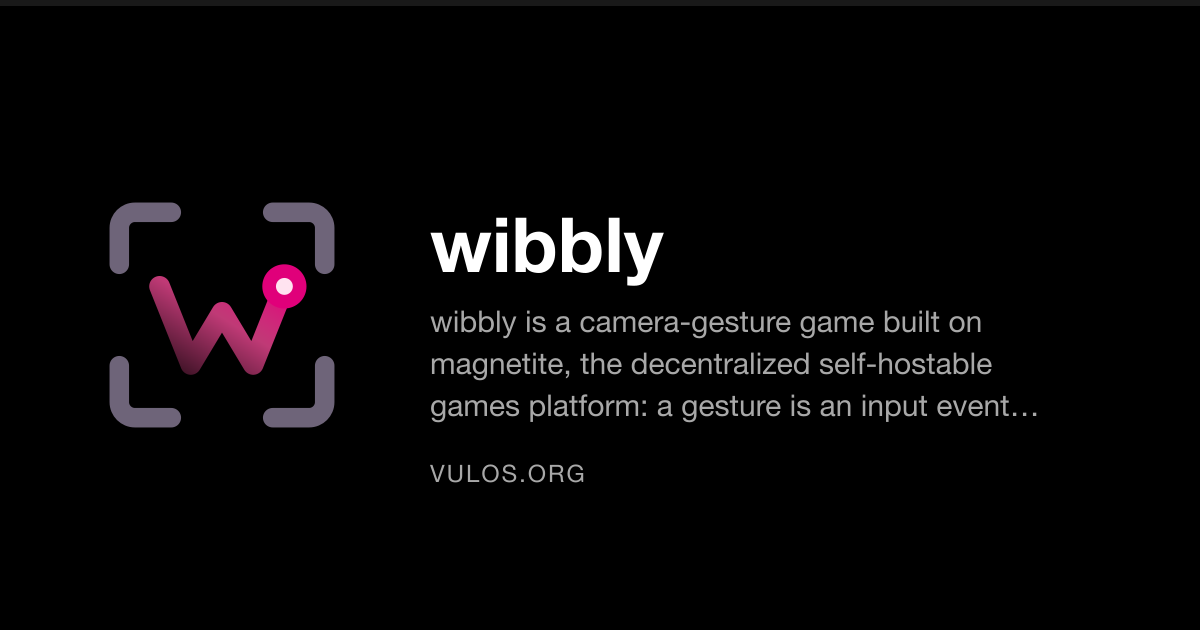
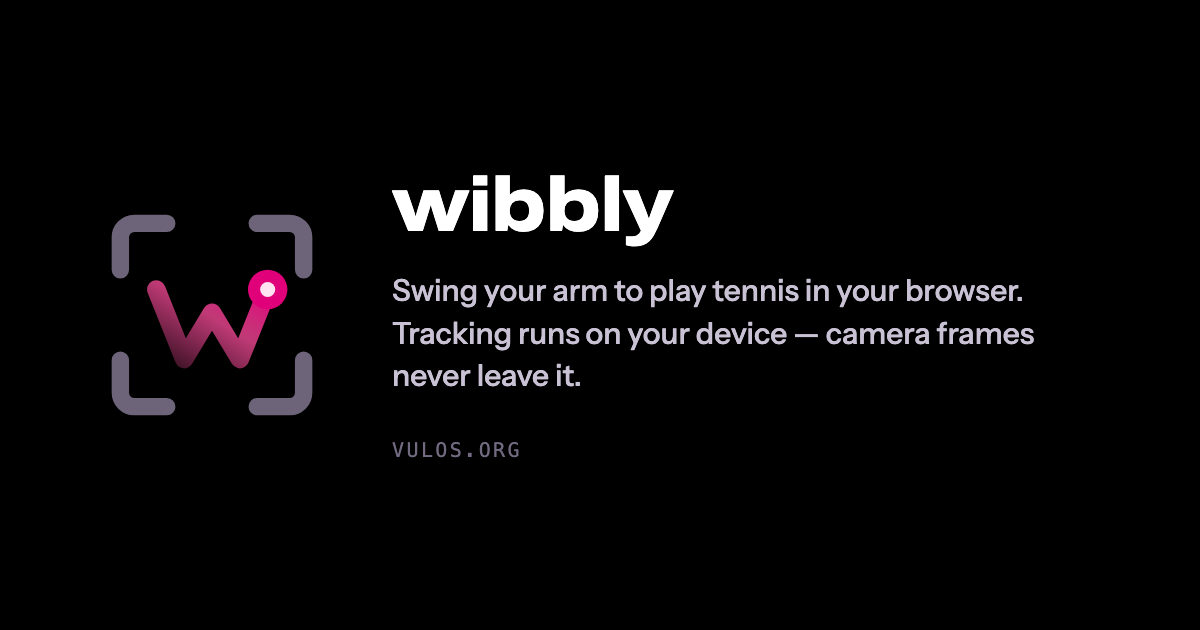
site: align docs shell nav to the agreed structure, fix a topbar overflow
docs.html's hardcoded GROUPS now matches the structure agreed with the
docs-content agent: Play (how-to-play/whats-in-it-today/troubleshooting)
-> Your camera (privacy) -> How it works (overview/architecture/models/
multiplayer) -> Build it yourself (getting-started/configuration/
runtime-targets/roadmap), last.

Also found and fixed a real horizontal-overflow bug while sweeping
narrow widths: the topbar's brand-word hid at <=370px but the vulos-btn
label only hid at <=340px, leaving a 371-388px dead zone where both
were visible at once and the page scrolled horizontally by ~13px.
Swept 320-1440px in 5-10px steps after the fix across the landing and
several docs pages — zero overflow anywhere now.

Regenerated site/assets/og-card.png's composition (same mark, copied
verbatim from brand/logo.svg, never redrawn) — the old card's body copy
was the same truncated run-on sentence the meta tags had, now a real
non-truncated line.

Agent-generated, machine-verified, NOT human-reviewed.

diff --git a/site/docs.html b/site/docs.html
@@ -231,12 +231,13 @@
 
   .nav-links { display: flex; align-items: center; gap: 4px; }
   .nav-links a {
-    font-family: var(--mono); font-size: 11px; font-weight: 500;
+    font-family: var(--mono); font-size: 12px; font-weight: 500;
     letter-spacing: .08em; text-transform: uppercase; color: var(--ink-3);
     padding: 5px 8px; border-radius: var(--r-sm); transition: color .15s, background .15s;
   }
   .nav-links a:hover { color: var(--ink); background: var(--surface-2); }
   .nav-links a.here { color: var(--accent); }
+  .nav-links a.play { color: var(--accent); }
   @media (max-width: 1080px) { .nav-links { display: none; } }
 
   .seg {
@@ -256,7 +257,7 @@
     display: inline-flex; align-items: center; gap: 7px; flex: none;
     padding: 5px 11px 5px 6px; border-radius: var(--r-md);
     border: 1px solid var(--line); background: var(--surface-2);
-    color: var(--ink-2); font-family: var(--mono); font-size: 11px; font-weight: 600;
+    color: var(--ink-2); font-family: var(--mono); font-size: 12px; font-weight: 600;
     letter-spacing: .06em; text-transform: uppercase;
     transition: border-color .18s, color .18s;
   }
@@ -266,15 +267,18 @@
   @media (max-width: 340px) { .vulos-btn > span { display: none; } .vulos-btn { padding: 5px 6px; } }
   /* docs.html's topbar carries one more control (menu-toggle) than the
      marketing pages, so it runs out of room sooner — drop the wordmark
-     and keep just the mark at the narrowest widths rather than overflow. */
-  @media (max-width: 370px) { .brand-word { display: none; } .brand { gap: 0; } }
+     and keep just the mark at the narrowest widths rather than overflow.
+     400px, not 370px: measured overflow between 371-388px with the old
+     threshold — the vulos-btn text breakpoint (340px) and this one left a
+     gap where both were still showing at once. */
+  @media (max-width: 400px) { .brand-word { display: none; } .brand { gap: 0; } }
 
   /* ── Mobile menu toggle — hidden on desktop ────────────────────────────── */
   .menu-toggle {
     display: none; align-items: center; gap: 8px; flex: none;
     padding: 7px 11px; border-radius: var(--r-md);
     border: 1px solid var(--line-2); background: var(--surface-2);
-    color: var(--ink-2); font-family: var(--mono); font-size: 11px; font-weight: 700;
+    color: var(--ink-2); font-family: var(--mono); font-size: 12px; font-weight: 700;
     letter-spacing: .1em; text-transform: uppercase; cursor: pointer;
   }
   .menu-toggle:hover { color: var(--ink); border-color: var(--ink-3); }
@@ -298,7 +302,7 @@
   }
   .docs-nav .kicker {
     display: flex; align-items: center; gap: 8px;
-    font-family: var(--mono); font-size: 10.5px; font-weight: 700;
+    font-family: var(--mono); font-size: 12px; font-weight: 700;
     letter-spacing: .18em; text-transform: uppercase; color: var(--ink-3);
     padding: 4px 10px 12px;
   }
@@ -328,7 +332,7 @@
   .docs-nav .grp[data-empty='true'] { display: none; }
 
   .docs-nav .grp {
-    font-family: var(--mono); font-size: 10.5px; font-weight: 700;
+    font-family: var(--mono); font-size: 12px; font-weight: 700;
     letter-spacing: .18em; text-transform: uppercase; color: var(--ink-3);
     padding: 14px 10px 6px; opacity: .85;
   }
@@ -340,7 +344,7 @@
     transition: color .15s, background .15s, box-shadow .15s;
   }
   .docs-nav a .idx {
-    font-family: var(--mono); font-size: 10.5px; font-weight: 700;
+    font-family: var(--mono); font-size: 12px; font-weight: 700;
     color: var(--ink-3); flex: none; letter-spacing: .04em;
   }
   .docs-nav a:hover { background: var(--surface-2); color: var(--ink); }
@@ -354,7 +358,7 @@
   .docs-main { min-width: 0; }
   .crumb {
     display: flex; align-items: center; gap: 8px; flex-wrap: wrap;
-    font-family: var(--mono); font-size: 10.5px; font-weight: 600;
+    font-family: var(--mono); font-size: 12px; font-weight: 600;
     letter-spacing: .12em; text-transform: uppercase; color: var(--ink-3);
     margin-bottom: 18px;
   }
@@ -372,7 +376,7 @@
   .docs-toc summary {
     cursor: pointer; list-style: none; user-select: none;
     display: flex; align-items: center; gap: 8px;
-    padding: 11px 15px; font-family: var(--mono); font-size: 10.5px; font-weight: 700;
+    padding: 11px 15px; font-family: var(--mono); font-size: 12px; font-weight: 700;
     letter-spacing: .16em; text-transform: uppercase; color: var(--ink-3);
   }
   .docs-toc summary::-webkit-details-marker { display: none; }
@@ -458,7 +462,7 @@
     display: block; overflow-x: auto;
   }
   .markdown thead th {
-    font-family: var(--mono); font-size: 10.5px; font-weight: 700;
+    font-family: var(--mono); font-size: 12px; font-weight: 700;
     letter-spacing: .1em; text-transform: uppercase; color: var(--ink-3);
     background: var(--surface-2); text-align: left;
   }
@@ -488,7 +492,7 @@
   .doc-footnav a:hover { border-color: var(--accent-line); background: var(--surface-2); }
   .doc-footnav a.next { text-align: right; margin-left: auto; }
   .doc-footnav .dir {
-    font-family: var(--mono); font-size: 10.5px; font-weight: 700;
+    font-family: var(--mono); font-size: 12px; font-weight: 700;
     letter-spacing: .16em; text-transform: uppercase; color: var(--ink-3);
   }
   .doc-footnav .ttl { font-weight: 600; font-size: 14px; color: var(--ink); }
@@ -530,7 +534,7 @@
   .foot .left img { width: 18px; height: 18px; border-radius: var(--r-sm); }
   .foot .left a { color: var(--ink-2); }
   .foot .links { display: flex; gap: 20px; flex-wrap: wrap; }
-  .foot .links a { color: var(--ink-3); font-family: var(--mono); font-size: 11px; letter-spacing: .1em; text-transform: uppercase; }
+  .foot .links a { color: var(--ink-3); font-family: var(--mono); font-size: 12px; letter-spacing: .1em; text-transform: uppercase; }
   .foot .links a:hover { color: var(--ink); }
 </style>
 <script src="./assets/vendor/marked.umd.js"></script>
@@ -561,10 +565,9 @@
     <span class="grow"></span>
 
     <nav class="nav-links" aria-label="Primary">
-      <a href="./index.html#status">Status</a>
-      <a href="./index.html#play">Play</a>
-      <a href="./index.html#seams">Seams</a>
-      <a href="./index.html#models">Models</a>
+      <a class="play" href="./play/" target="_top">▶ Play</a>
+      <a href="./index.html#screens">Screens</a>
+      <a href="./index.html#privacy">Privacy</a>
       <a href="./docs.html" class="here">Docs</a>
       <a href="https://github.com/vul-os/wibbly" target="_blank" rel="noopener noreferrer">GitHub</a>
     </nav>
@@ -663,11 +666,19 @@
    #slug and #slug#heading deep-links both work; the active sidebar entry
    tracks the route. No network request leaves the origin.
    ═══════════════════════════════════════════════════════════════════════════ */
+/* Group order agreed with the docs-content agent after the job split: Play
+   (three player-facing pages) -> Your camera -> How it works -> Build it
+   yourself, last. Filenames are this shell's best guess at what the docs
+   agent is landing under site/docs/ — see site/docs/_incoming-from-landing.md
+   for the handoff note. If a filename below doesn't match what lands there,
+   this list is the one place to fix it. */
 const GROUPS = [
   { title: 'Play', items: [
-    { slug: 'play',              title: 'Play',                   path: './docs/PLAY.md' },
+    { slug: 'how-to-play',       title: 'How to play',            path: './docs/HOW-TO-PLAY.md' },
+    { slug: 'whats-in-it-today', title: "What's in it today",     path: './docs/WHATS-IN-IT-TODAY.md' },
+    { slug: 'troubleshooting',   title: 'Troubleshooting',        path: './docs/TROUBLESHOOTING.md' },
   ]},
-  { title: 'Privacy', items: [
+  { title: 'Your camera', items: [
     { slug: 'privacy',           title: 'Privacy',                path: './docs/PRIVACY.md' },
   ]},
   { title: 'How it works', items: [
@@ -676,7 +687,7 @@ const GROUPS = [
     { slug: 'models',            title: 'Model selection',        path: './docs/MODELS.md' },
     { slug: 'multiplayer',       title: 'Multiplayer & anti-cheat', path: './docs/MULTIPLAYER.md' },
   ]},
-  { title: 'Advanced: build it yourself', items: [
+  { title: 'Build it yourself', items: [
     { slug: 'getting-started',   title: 'Getting started',        path: './docs/GETTING-STARTED.md' },
     { slug: 'configuration',     title: 'Configuration',          path: './docs/CONFIGURATION.md' },
     { slug: 'runtime-targets',   title: 'Runtime targets',        path: './docs/RUNTIME-TARGETS.md' },
